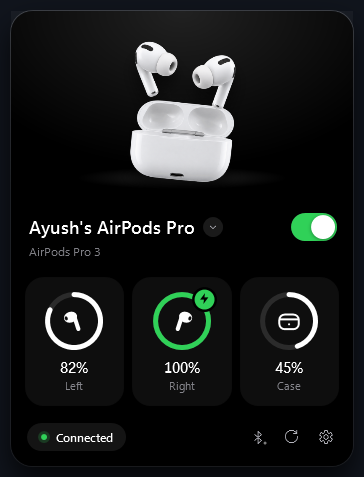
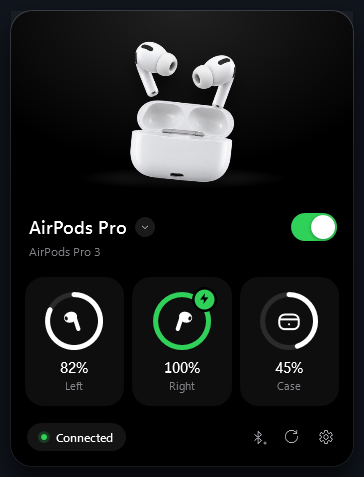
Use a generic device name in the README screenshot
The screenshot came from a UI test fixture named after a person. Rename the
fixture to "AirPods Pro" and regenerate the image, as CONTRIBUTING asks.

Changed region(s): [[0.0907, 0.4403, 0.6346, 0.499]]

diff --git a/tests/UiSmoke.cs b/tests/UiSmoke.cs
@@ -85,7 +85,7 @@ namespace Karmac.Tests
             Assert(((Grid)window.FindName("BatteryRow")).Visibility != Visibility.Visible, "No battery row without AirPods");
             Shot(window, "flyout-no-airpods");
 
-            var pro = Pair(controller, 0x2027, "Ayush's AirPods Pro", 0xAABBCC000027UL);
+            var pro = Pair(controller, 0x2027, "AirPods Pro", 0xAABBCC000027UL);
             Stage(controller, picker, new List<AudioTarget> { pro }, pro, "On");
             Assert(badge.Text == "Not connected" && toggle.IsVisible && toggle.IsChecked == false &&
                 (string)primary.Content == "Connect", "Disconnected pair offers Connect with the switch off");
